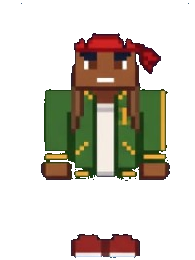
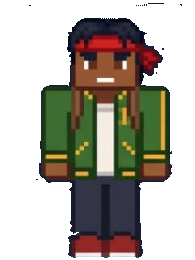
fix: scale down and align all skins and bundles firmly onto diamond pedestal, prevent top clipping, and add live DP head preview

diff --git a/app/(app)/vault/page.tsx b/app/(app)/vault/page.tsx
@@ -248,13 +248,23 @@ export default function VaultPage() {
                 </h3>
               </div>
 
-              <button
-                onClick={handleSetAvatarAsDP}
-                className="h-[34px] px-3.5 rounded-xl font-black text-xs uppercase tracking-wider shadow-[0_2px_10px_rgba(245,158,11,0.5)] border border-[#FDE68A] bg-gradient-to-b from-[#FDE68A] via-[#F59E0B] to-[#B45309] text-slate-950 active:scale-95 transition-all cursor-pointer flex items-center gap-1"
-              >
-                <Camera className="w-3.5 h-3.5" />
-                <span>Set as DP</span>
-              </button>
+              <div className="flex items-center gap-2">
+                {lastExtractedFace && (
+                  <div
+                    title="Current Dressed Head Preview"
+                    className="w-8 h-8 rounded-full border-2 border-amber-400/80 overflow-hidden bg-slate-900 shadow-md shrink-0 ring-1 ring-amber-300"
+                  >
+                    <img src={lastExtractedFace} alt="DP Head" className="w-full h-full object-cover" />
+                  </div>
+                )}
+                <button
+                  onClick={handleSetAvatarAsDP}
+                  className="h-[34px] px-3 rounded-xl font-black text-xs uppercase tracking-wider shadow-[0_2px_10px_rgba(245,158,11,0.5)] border border-[#FDE68A] bg-gradient-to-b from-[#FDE68A] via-[#F59E0B] to-[#B45309] text-slate-950 active:scale-95 transition-all cursor-pointer flex items-center gap-1"
+                >
+                  <Camera className="w-3.5 h-3.5" />
+                  <span>Set as DP</span>
+                </button>
+              </div>
             </div>
 
             {/* 5 Compact Emote Pills (Height: 32px) */}
@@ -287,14 +297,14 @@ export default function VaultPage() {
               ))}
             </div>
 
-            {/* Stage Character Render with Pedestal Block */}
-            <div className="relative flex-1 min-h-[220px] flex flex-col items-center justify-center my-1 rounded-2xl bg-black/40 border border-white/5 overflow-hidden">
+            {/* Stage Character Render with Pedestal Block (Lowered & Aligned to Pedestal) */}
+            <div className="relative flex-1 min-h-[260px] h-[270px] flex flex-col items-center justify-end pb-4 my-1 rounded-2xl bg-black/40 border border-white/5 overflow-hidden">
               <div className="absolute inset-0 bg-[radial-gradient(ellipse_at_center,_var(--tw-gradient-stops))] from-amber-500/15 via-transparent to-transparent pointer-events-none" />
 
               <MinecraftVoxelCharacter
                 skinPath={currentCustom.skinPath || '/skins/boy/skullwar.png'}
                 mode="stage"
-                size={220}
+                size={230}
                 animation={testAnim}
                 showPedestal={true}
                 pedestalType={pedestalType}

diff --git a/components/avatar/MinecraftVoxelCharacter.tsx b/components/avatar/MinecraftVoxelCharacter.tsx
@@ -361,10 +361,10 @@ export const MinecraftVoxelCharacter: React.FC<MinecraftVoxelCharacterProps> = (
           </div>
         )}
 
-        {/* Assembled Standing Minecraft Character (Crisp Voxel Sprite) */}
+        {/* Assembled Standing Minecraft Character (Crisp Voxel Sprite - Scaled & Grounded) */}
         <div
-          className={`relative z-10 transition-transform ${animTransformClass}`}
-          style={{ width: '130px', height: '240px' }}
+          className={`relative z-10 transition-transform ${animTransformClass} translate-y-3`}
+          style={{ width: '105px', height: '175px' }}
         >
           {currentTexture ? (
             <img
@@ -380,18 +380,18 @@ export const MinecraftVoxelCharacter: React.FC<MinecraftVoxelCharacterProps> = (
           )}
         </div>
 
-        {/* 3D Voxel Minecraft Block Pedestal (Diamond / Obsidian / Grass) */}
+        {/* 3D Voxel Minecraft Block Pedestal (Diamond / Obsidian / Grass - Positioned directly under feet) */}
         {showPedestal && (
           <div
             style={{
               transformStyle: 'preserve-3d',
-              transform: 'translateY(-16px) rotateX(65deg)'
+              transform: 'translateY(-14px) rotateX(65deg)'
             }}
-            className="relative w-36 h-36 flex items-center justify-center mt-[-10px]"
+            className="relative w-32 h-16 flex items-center justify-center mt-[-8px]"
           >
             {/* Top Surface of Block */}
             <div
-              className={`w-full h-full rounded-2xl border-2 shadow-[0_0_30px_rgba(0,0,0,0.9)] flex items-center justify-center ${
+              className={`w-full h-full rounded-2xl border-2 shadow-[0_0_25px_rgba(0,0,0,0.9)] flex items-center justify-center ${
                 pedestalType === 'diamond'
                   ? 'bg-gradient-to-br from-cyan-600 via-sky-800 to-cyan-950 border-cyan-300 shadow-[0_0_25px_rgba(6,182,212,0.6)]'
                   : pedestalType === 'obsidian'
@@ -401,7 +401,7 @@ export const MinecraftVoxelCharacter: React.FC<MinecraftVoxelCharacterProps> = (
             >
               {/* Inner Glowing Inset Ring */}
               <div className="w-[85%] h-[85%] rounded-xl border border-white/30 flex items-center justify-center">
-                <span className="text-xs font-mono font-black text-white/70">
+                <span className="text-[10px] font-mono font-black text-white/80">
                   {pedestalType === 'diamond' ? '💎 DIAMOND' : '🔮 OBSIDIAN'}
                 </span>
               </div>
